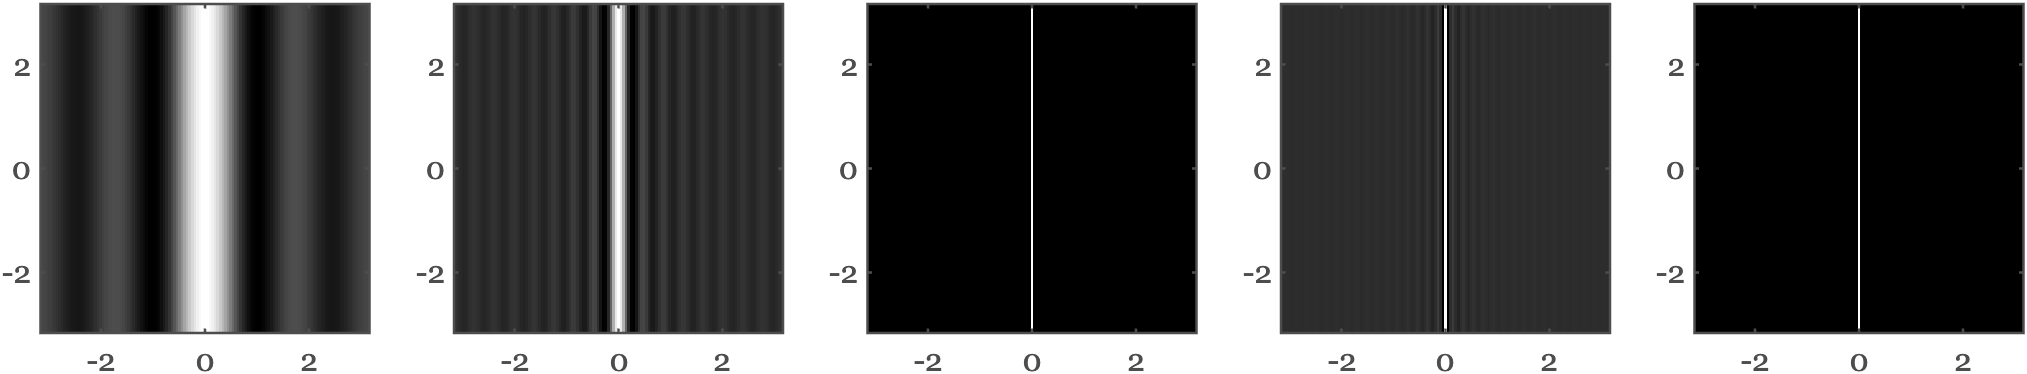
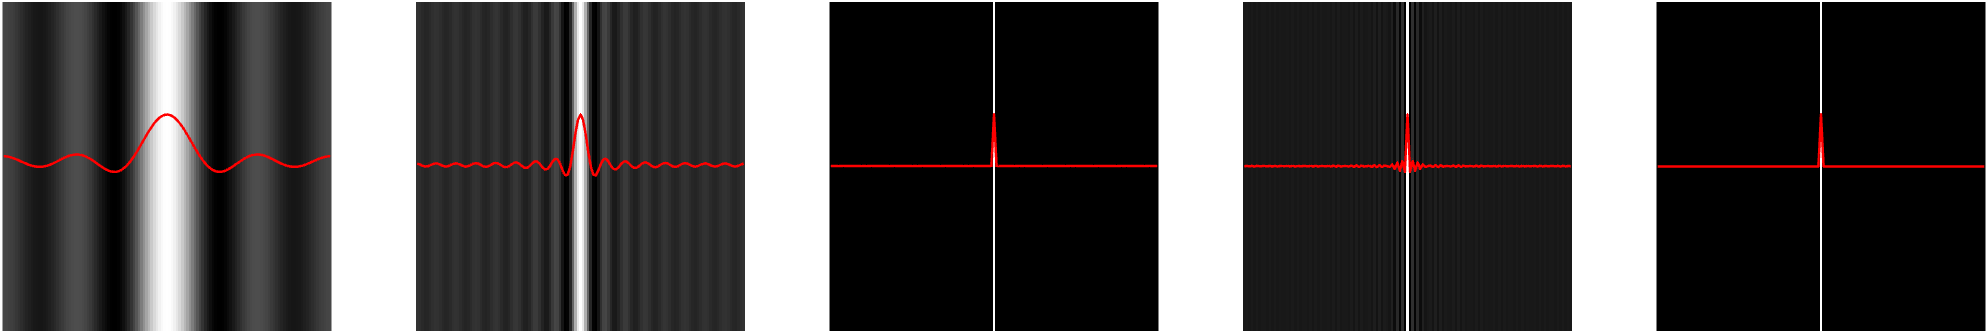
Enhance impulse reconstruction visualization by adding a new condition for displaying results and overlaying the intensity profile.  Also added discrete form, replacing continuous mathematical form, and included a new condition for displaying the results.

diff --git a/code/02Optics/fise_imageHarmonics.m b/code/02Optics/fise_imageHarmonics.m
@@ -158,11 +158,12 @@ for fx = 0:(N-1)
     % reconstructed_impulse = reconstructed_impulse + DFT_coefficients(k_freq + 1) * exp(1j * 2 * pi * k_freq * n_indices / N);
     % reconstructed_impulse = reconstructed_impulse + DFT_coefficients(k_freq + 1) * cos(2 * pi * k_freq * n_indices / N);
     reconstructed_impulse = reconstructed_impulse + cos(2 * pi * fx * n_indices2 / N);
-    if fx == 4 || fx == 16 || fx == 64 || fx == 96 || fx == N-1
+    if fx == 4 || fx == 16 || fx == 64 || fx == 72 || fx == N-1
         nexttile;
-        imagesc(x_plot,x_plot,circshift(reconstructed_impulse /(fx +1), [0, (N-1)/2]));
-        axis image equal tight
-        pause(1);
+        Y = circshift(reconstructed_impulse /(fx +1), [0, (N-1)/2]);
+        imagesc(x_plot,x_plot,Y);        
+        hold on; plot(x_plot,-1*Y(65,:),'r-');
+        axis image equal tight off
     end
 end
 
